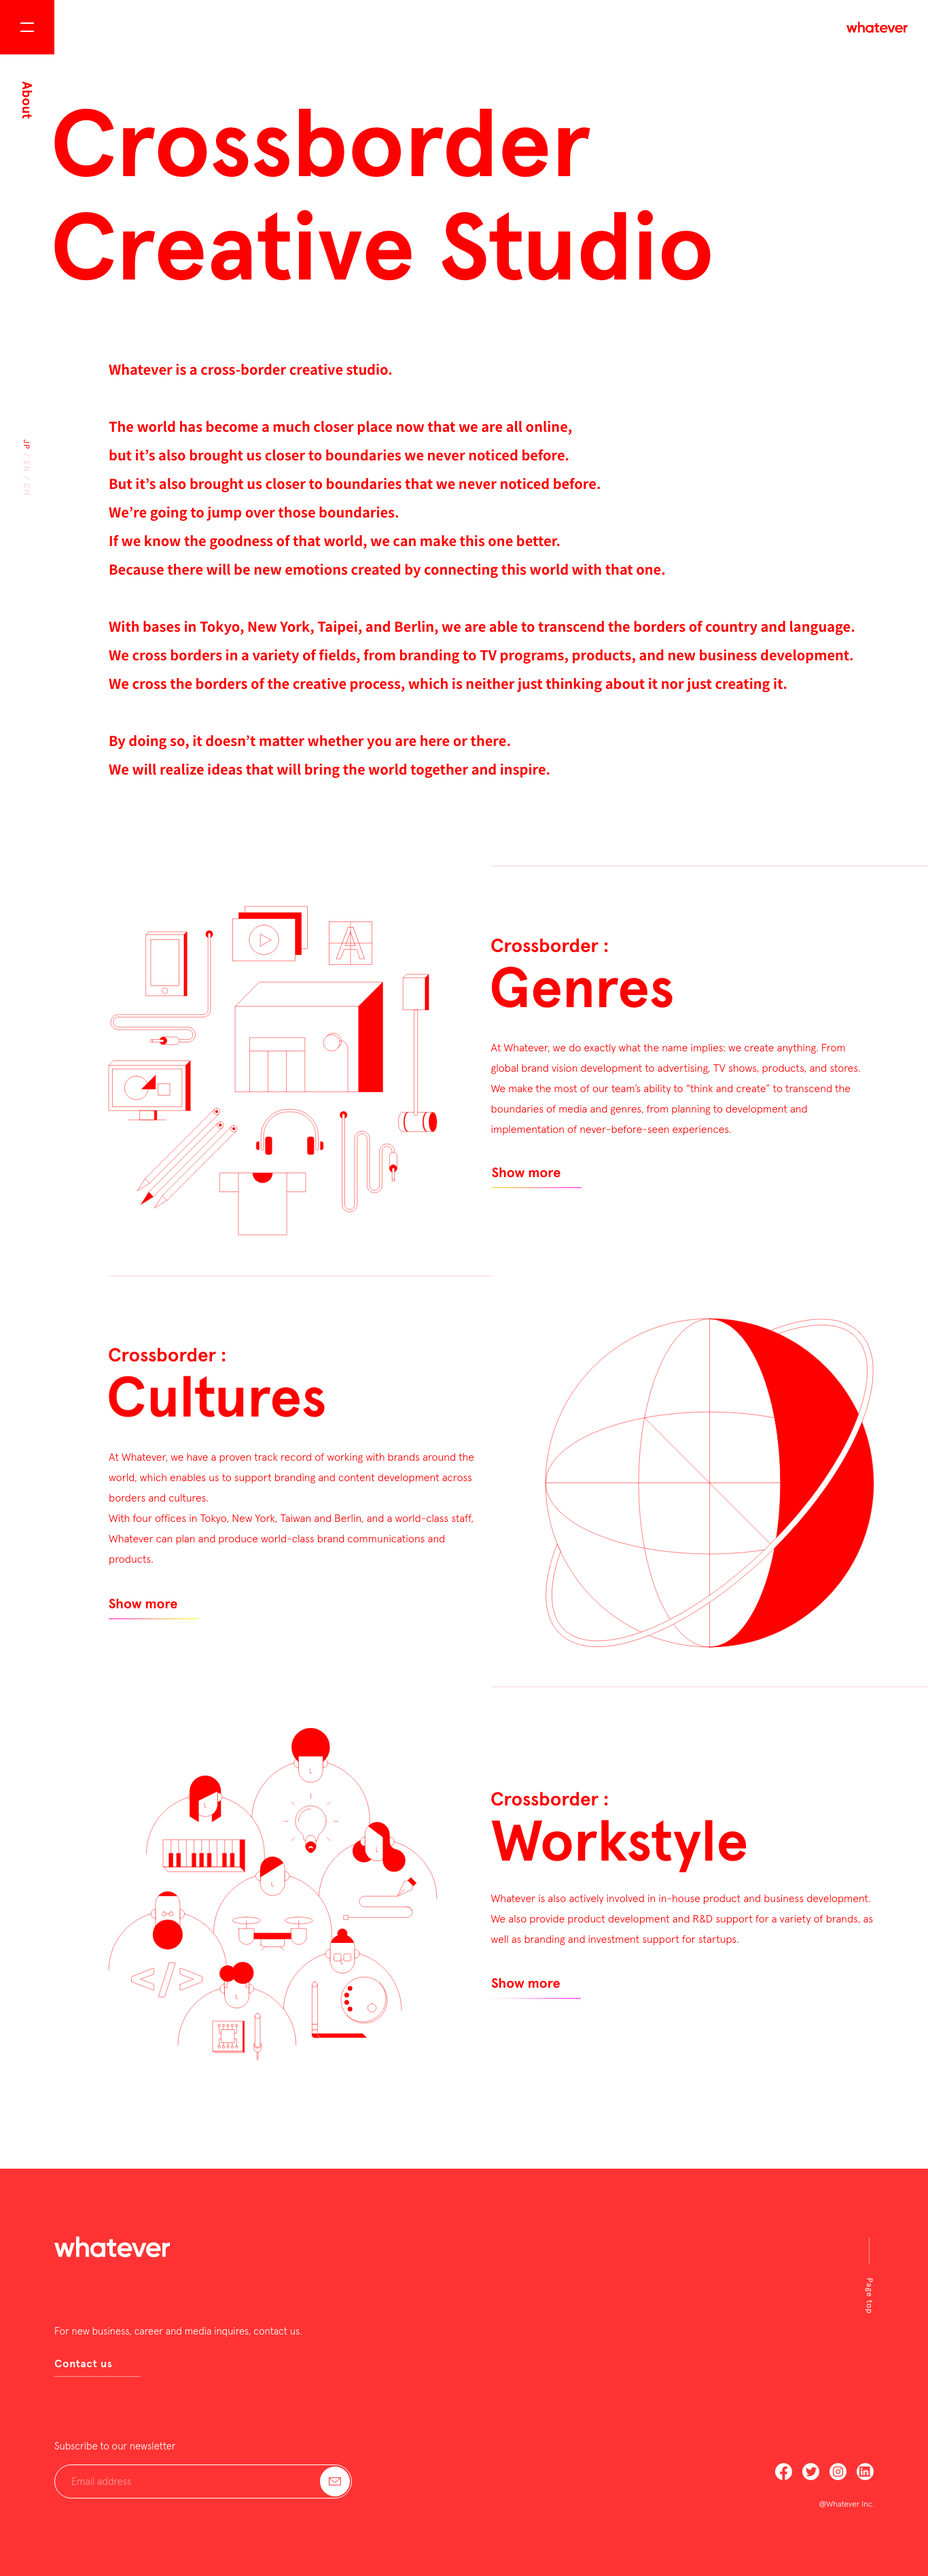
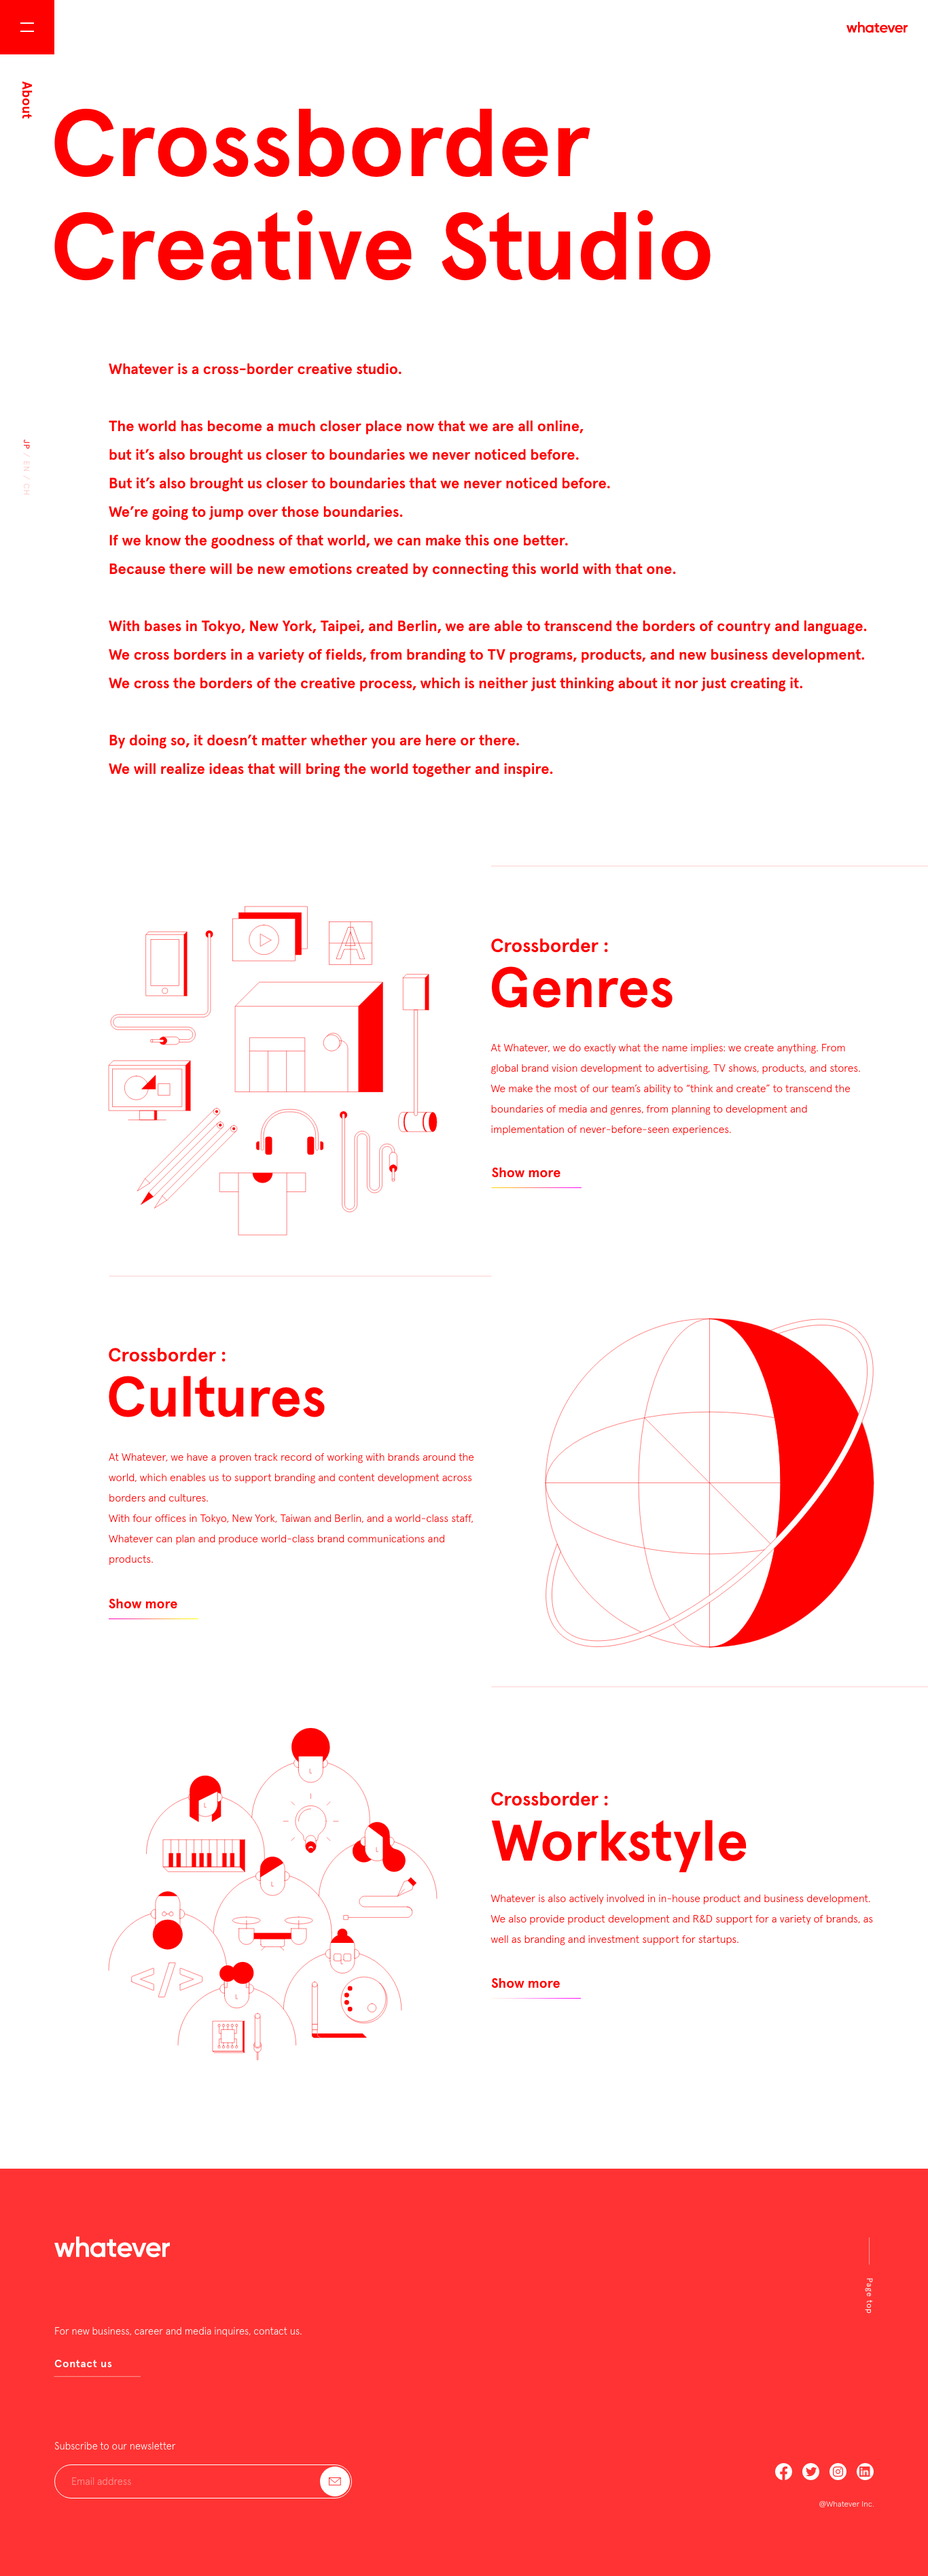
about index genres ja

Changed region(s): [[0.123, 0.1558, 0.8609, 0.3115]]

diff --git a/pages/about.tsx b/pages/about.tsx
@@ -1,65 +1,69 @@
 import Link from 'next/link'
-import { t } from 'lib/i18n'
+import { t, LangStyle } from 'lib/i18n'
 import Layout from 'components/Layout'
 import { Grad, GradImg } from 'components/Grad'
 
 const Genres = () => (
   <div className="genres">
-    <div className="image"><GradImg><img src="/about/image.jpg" width="1028" height="578" /></GradImg></div>
     <div className="inner">
-      <Grad><h2>Crossing the border of</h2></Grad>
-      <Grad><h1>genres</h1></Grad>
-      <Grad><p>At Whatever, we do exactly what the name implies: we create anything. From global brand vision development to advertising, TV shows, products, and stores. We make the most of our team’s ability to “think and create” to transcend the boundaries of media and genres, from planning to development and implementation of never-before-seen experiences.</p></Grad>
-      <div className="learn"><Grad><Link href="/about/genres"><a>Learn more</a></Link></Grad></div>
+      <div className="image"><GradImg><img src="/about/genres@2x.png" /></GradImg></div>
+      <div className="content">
+        <Grad><h3>Crossborder :</h3></Grad>
+        <Grad><h1>Genres</h1></Grad>
+        <Grad><h2>{t('about.index.genres.title')}</h2></Grad>
+        <Grad><p dangerouslySetInnerHTML={{ __html: t('about.index.genres.description').replace('\n', '<br />') }}></p></Grad>
+        <div className="more"><Grad><Link href="/about/genres"><a>Show more</a></Link></Grad></div>
+      </div>
     </div>
     <style jsx>{`
       .genres
-        {/* opacity 0.5 */}
-        position relative
-        padding-top 289px
-        padding-left 603px
-        padding-right 60px
-        margin-bottom 93px
-      .image
-        position absolute
-        top 0
-        left 0
+        width 100%
       .inner
-        position relative
-        background-color white
-        padding-top 29px
-        padding-left 60px
-      h2
+        display flex
+        justify-content space-between
+      .image img
+        width calc((100vw - 80px) * 0.3755)
+        margin-left calc((100vw - 80px) * 0.062)
+        margin-top calc((100vw - 80px) * 0.0465)
+      .content
+        border-top 1px solid #D0D0D0
+        width calc((100vw - 80px) * 0.5)
+        padding-top calc((100vw - 80px) * 0.081)
+      h3
         display inline-block
         overflow hidden
-        font-size 36px
-        margin-bottom 0
-        margin-left -2px
+        font-size calc((100vw - 80px) * 0.0217)
+        margin 0
       h1
         display inline-block
         overflow hidden
-        font-size 72px
-        margin-top 10px
+        font-size calc((100vw - 80px) * 0.0653)
+        margin 0
+        margin-top calc((100vw - 80px) * 0.0045)
         margin-bottom 17px
-        margin-left -4px
+        margin-left calc((100vw - 80px) * -0.002)
+      h2
+        display inline-block
+        overflow hidden
+        font-size calc((100vw - 80px) * 0.0187)
+        margin 0
+        margin-top calc((100vw - 80px) * 0.0045)
       p
-        line-height 2.0em
-        margin-left -2px
-        letter-spacing -0.01em
-      .learn
-        display flex
-        justify-content flex-end
+        margin-top calc((100vw - 80px) * 0.014)
+        margin-right calc((100vw - 80px) * 0.06)
+        line-height 2em
+      .more
         a
-          display block
+          display inline-block
           font-weight bold
-          font-size 18px
+          font-size 2rem
           border none
           border-bottom 1px solid
           background none
-          margin-top 10px
+          margin-top calc((100vw - 80px) * 0.019)
           margin-right 20px
-          padding-bottom 5px
-          padding-right 55px
+          padding-bottom 11px
+          padding-right 30px
           padding-left 0
     `}</style>
   </div>
@@ -185,20 +189,25 @@ const Profession = () => (
 
 const AboutPage = () => (
   <Layout title="ABOUT">
-    <div className="head">
-      <Grad><h1>Crossborder</h1></Grad>
-      <Grad><h1>Creative Studio</h1></Grad>
-    </div>
-    <div className="text">
-      <p><Grad><span>{t('about.index.statement1')}</span></Grad></p>
-      <p>{t('about.index.statement2').split('\n').map((line => <Grad><span>{line}</span></Grad>))}</p>
-      <p>{t('about.index.statement3').split('\n').map((line => <Grad><span>{line}</span></Grad>))}</p>
-      <p>{t('about.index.statement4').split('\n').map((line => <Grad><span>{line}</span></Grad>))}</p>
+    <div className={LangStyle()}>
+      <div className="head">
+        <Grad><h1>Crossborder</h1></Grad>
+        <Grad><h1>Creative Studio</h1></Grad>
+      </div>
+      <div className="text">
+        {[1, 2, 3, 4].map(n => (
+          <div key={n} className="p">
+            {t(`about.index.statement${n}`).split('\n').map((line, index) => (
+              <Grad key={index}><span>{line}</span></Grad>
+            ))}
+          </div>
+        ))}
+      </div>
     </div>
 
     <Genres />
-    <Cultures />
-    <Profession />
+    {/* <Cultures />
+    <Profession /> */}
 
     <style jsx>{`
       .head
@@ -214,17 +223,22 @@ const AboutPage = () => (
           overflow hidden
       .text
         margin-left calc((100vw - 80px) * 0.062)
-        margin-bottom 157px
+        margin-bottom calc((100vw - 80px) * 0.0915)
         font-size calc((100vw - 80px) * 0.01557)
         font-weight bold
-        line-height 1.15em
-        p
+        line-height calc((100vw - 80px) * 0.018)
+        >div.p
           margin 0
           margin-bottom calc((100vw - 80px) * 0.0325)
         span
           display inline-block
           overflow hidden
           margin-bottom calc((100vw - 80px) * 0.0101)
+      .en
+        .head
+          margin-bottom calc((100vw - 80px) * 0.0675)
+        .text
+          font-size calc((100vw - 80px) * 0.0171)
     `}</style>
   </Layout>
 )

diff --git a/lib/resources.ts b/lib/resources.ts
@@ -9,6 +9,14 @@ export const resources = {
       whateveris1: 'Whatever is a cross-border creative studio.',
       whateveris2: '',
     },
+    about: {
+      index: {
+        statement1: 'Whatever is a cross-border creative studio.',
+        statement2: 'The world has become a much closer place now that we are all online, \nbut it’s also brought us closer to boundaries we never noticed before.\nBut it’s also brought us closer to boundaries that we never noticed before.\nWe’re going to jump over those boundaries.\nIf we know the goodness of that world, we can make this one better.\nBecause there will be new emotions created by connecting this world with that one.',
+        statement3: 'With bases in Tokyo, New York, Taipei, and Berlin, we are able to transcend the borders of country and language.\nWe cross borders in a variety of fields, from branding to TV programs, products, and new business development.\nWe cross the borders of the creative process, which is neither just thinking about it nor just creating it.',
+        statement4: 'By doing so, it doesn’t matter whether you are here or there.\nWe will realize ideas that will bring the world together and inspire.',
+      }
+    }
   },
   'ja': {
     contactform: {
@@ -26,7 +34,11 @@ export const resources = {
         statement2: 'みんながオンラインでつながって、世界はグンと近くなった。\nでもそれによって、これまで気づかなかった様々な境界線も見えてきた。\nわたしたちは、その境界を、跳び越える。\nあっちの良さを知っていれば、こっちをもっと良くできるから。\nこっちとあっちをつなげることで、生まれる新しい感動があるから。',
         statement3: '東京、ニューヨーク、台北、ベルリンの拠点を活かし、国や言葉というボーダーを越える。\nブランディングから、テレビ番組、プロダクト、新事業開発まで、様々な領域のボーダーを越える。\n考えるだけでもなく、作るだけでもない、クリエイティブ・プロセスのボーダーを越える。',
         statement4: 'そうすることで、あっちもこっちも関係なく、\n世界中が一つになって感動できるようなアイデアを実現していきます。',
-      }
+        genres: {
+          title: 'ジャンルの境界線を越える',
+          description: 'Whateverでは、その名の通り、なんでもつくります。グローバルブランドのビジョン開発から、広告、テレビ番組、プロダクトに、お店まで。\n「考えて作れる」チームを活かし、メディアやジャンルといった枠組みを飛び越えて誰も見たことがないような体験の、企画から開発・実装まで行っています。',
+        }
+      },
     }
   },
   'zh-hans': {},

diff --git a/components/Layout.tsx b/components/Layout.tsx
@@ -52,7 +52,7 @@ const Layout = ({ children, footer, title = "", showHeader = true }: Props) => {
           display flex
           align-items flex-start
         .main
-          margin auto
+          width 100%
       `}</style>
 
       <style jsx global>{`
